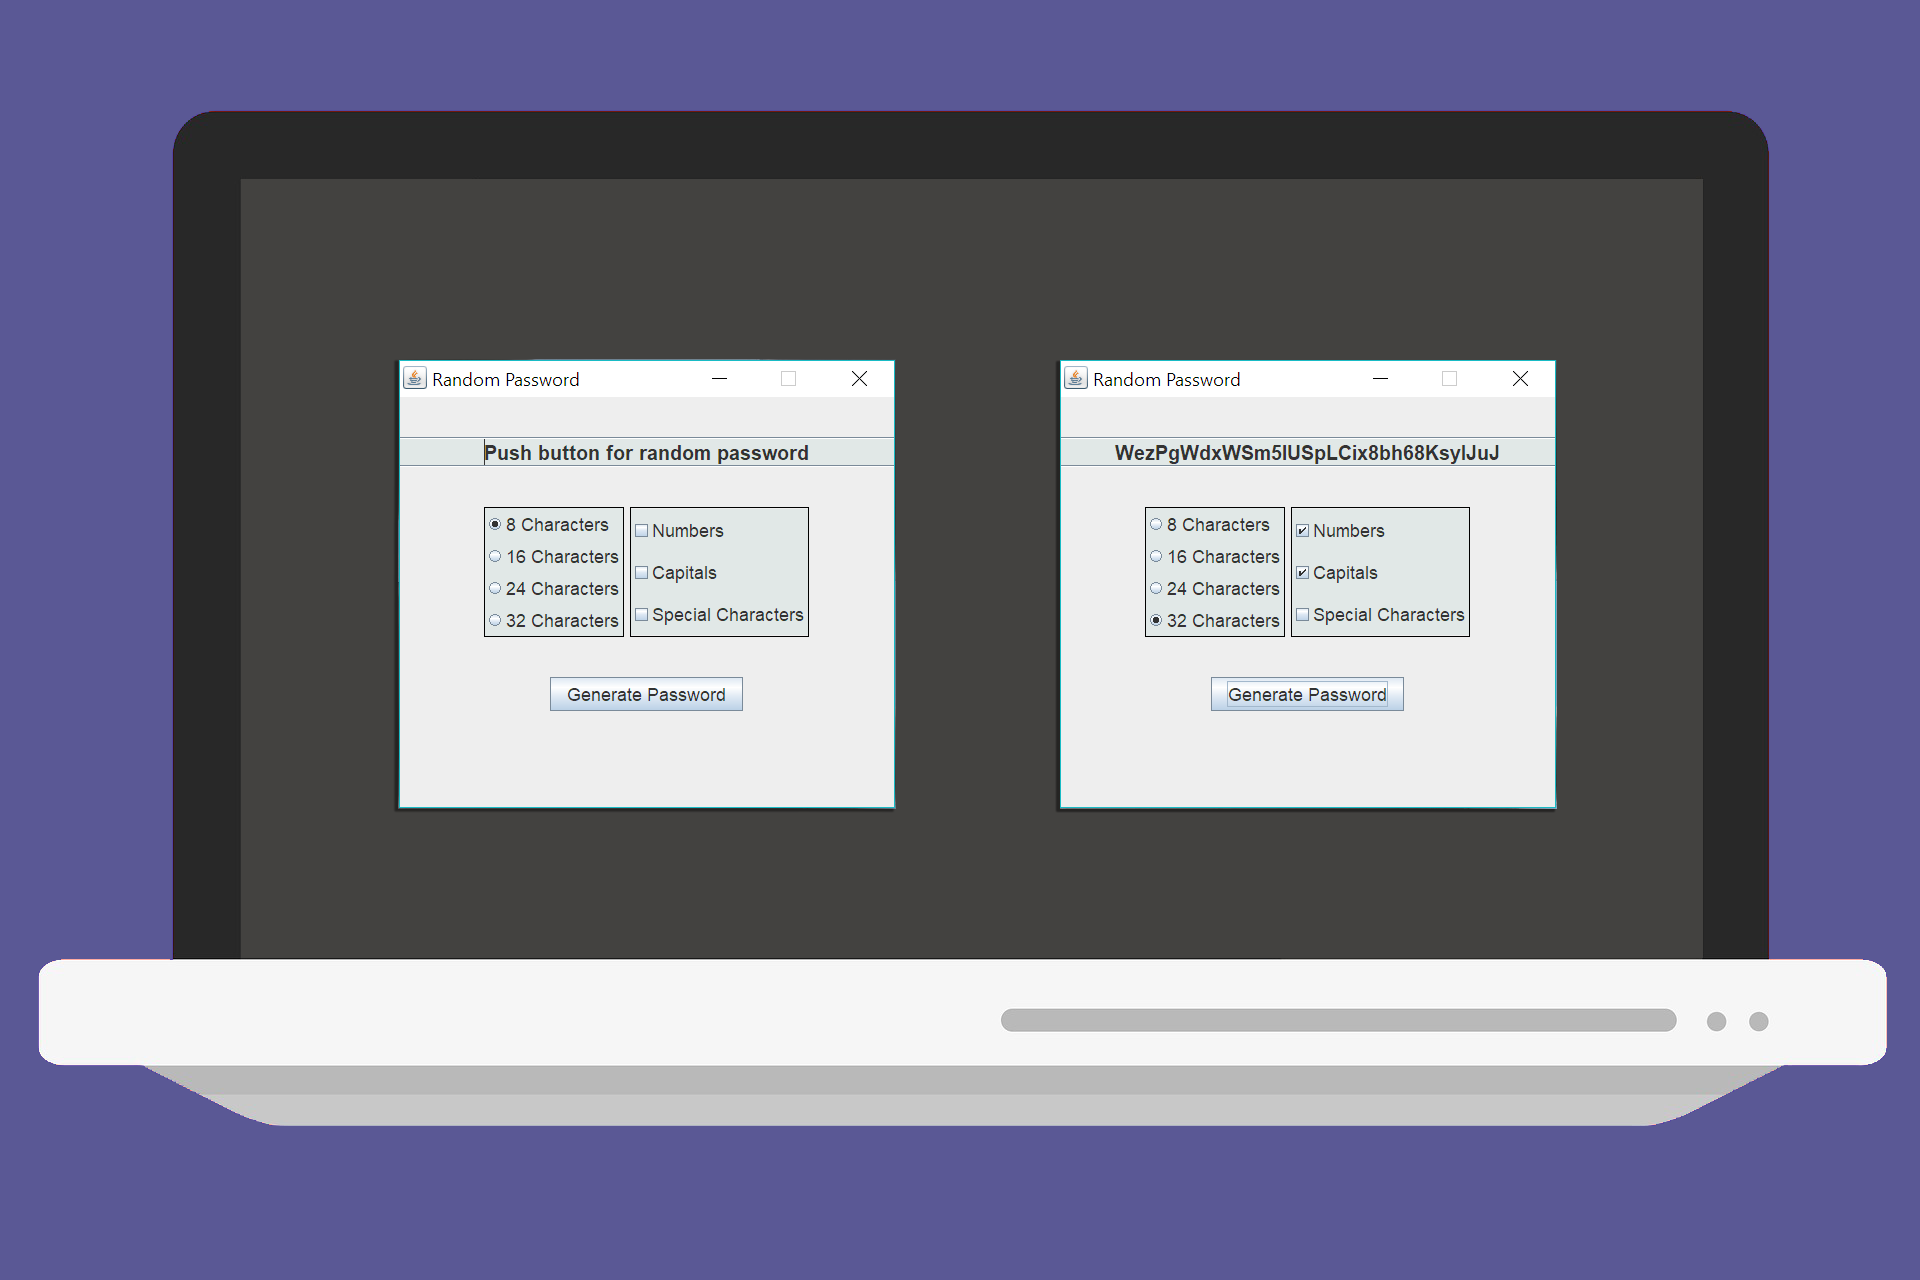
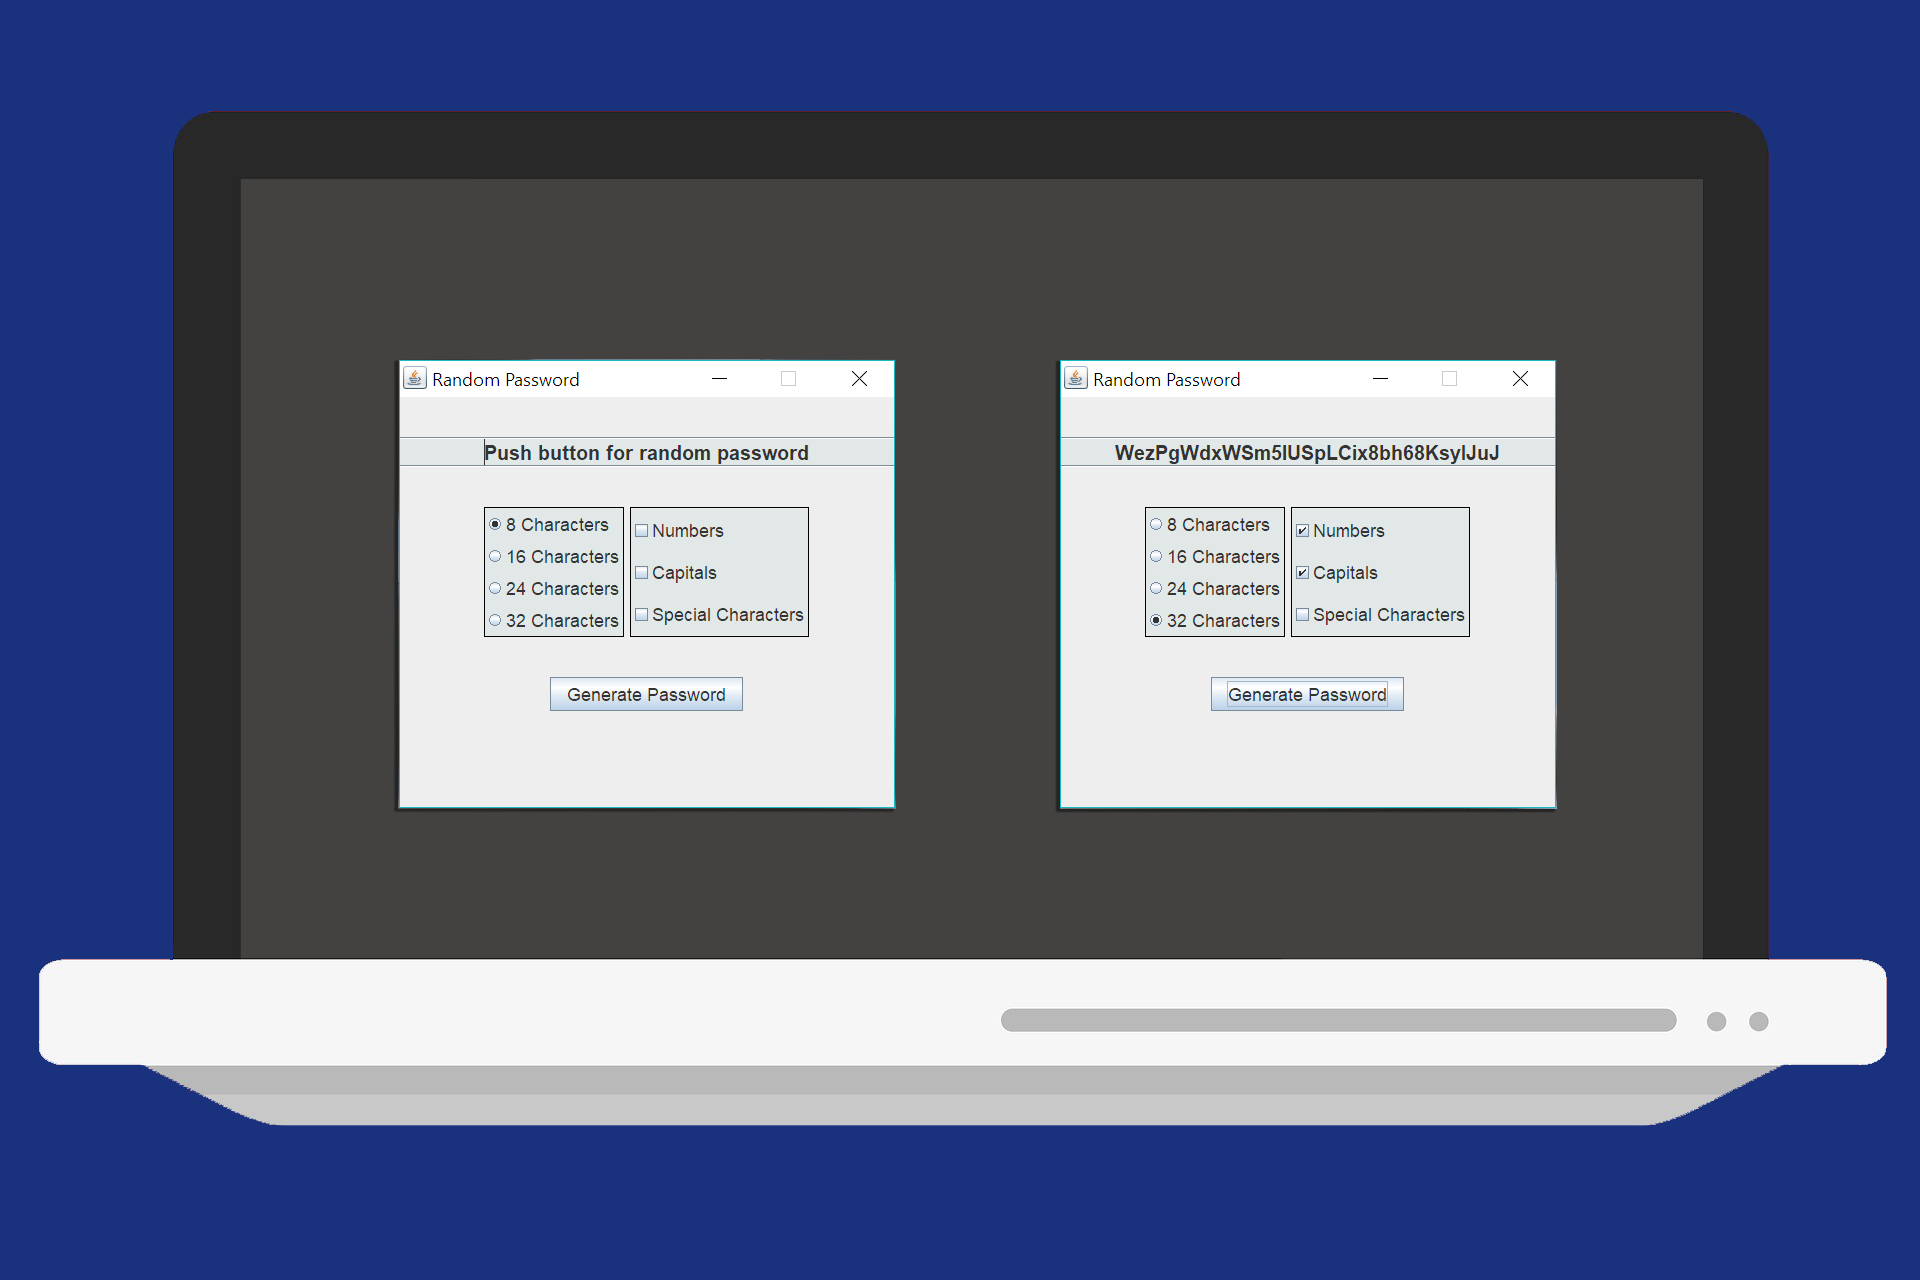
updates
index.html heading changes
randomPasswordScreen.png color changes
custom.css style changes

diff --git a/index.html b/index.html
@@ -27,7 +27,7 @@
   <!-- navbar menu -->
 	<div class="navbar navbar-default navbar-fixed-top" role="navigation">
 		<div class="container" >
-		<div class="navbar-header">
+			<div class="navbar-header">
 				<button type="button" class="navbar-toggle" data-toggle="collapse" data-target=".navbar-collapse">
 					<span class="sr-only">Toggle navigation</span>
 					<span class="icon-bar"></span>
@@ -59,7 +59,7 @@
 			<div class="thumbnail col-sm-6" id="aboutPic">
 				<img src="images\jasonTrio.jpg" alt="Three candid pics of Jason" width="60%">
 			</div>
-			<div class="panel-fluid col-sm-6" id="about" width="40%;">
+			<div class="panel-fluid col-sm-6" id="about">
 				<div class="panel-heading text-center" id="aboutHeading">
 					<h2>About</h2>
 				</div>
@@ -100,9 +100,9 @@
 			
 		</div>
 	</div>	
-	<div class="container-fluid">
+	<div class="container-fluid" id="projects">
 		<div class="row">
-			<div class="thumbnail col-sm-6" id="random">
+			<div class="thumbnail col-md-6" id="random">
 				<a href="images\randomPasswordScreen.png" target="_blank"><img src="images\randomPasswordScreen.png" alt="Random Password Screenshots"></a>
 				<p>Random password is a Java program using SWING for the GUI.</p>
 				<p>It produces a random password based number of charcters and which characters to include.</p>
@@ -115,8 +115,9 @@
 	
 	
 	<!-- footer -->
+	
 	<div class="navbar-footer navbar-inverse">
-		<div class="container" id="projects">
+		<div class="container-fluid">
 			<div class="navbar-text pull-left">
 				<p>© 2017 Jason Oehlberg.</p>
 			</div>

diff --git a/css/custom.css b/css/custom.css
@@ -49,7 +49,7 @@ body {
 #about {
 	background-color: #5A5895;
 	margin-top: 5%;
-	border: 5px solid white;
+	padding: 0, 0, 0, 5px;
 }
 
 #aboutPic {
@@ -60,6 +60,20 @@ body {
 
 #random {
 	border: none;
+	width: 45%;
+	margin-top: 20px;
+	margin-left: 20px;
+	font-size: 15px;
+	font-weight: bold;
+	color: #061A20;
+}
+
+#random p {
+	
+}
+
+#projects {
+	background-color: #5A5895;
 }
 
 
